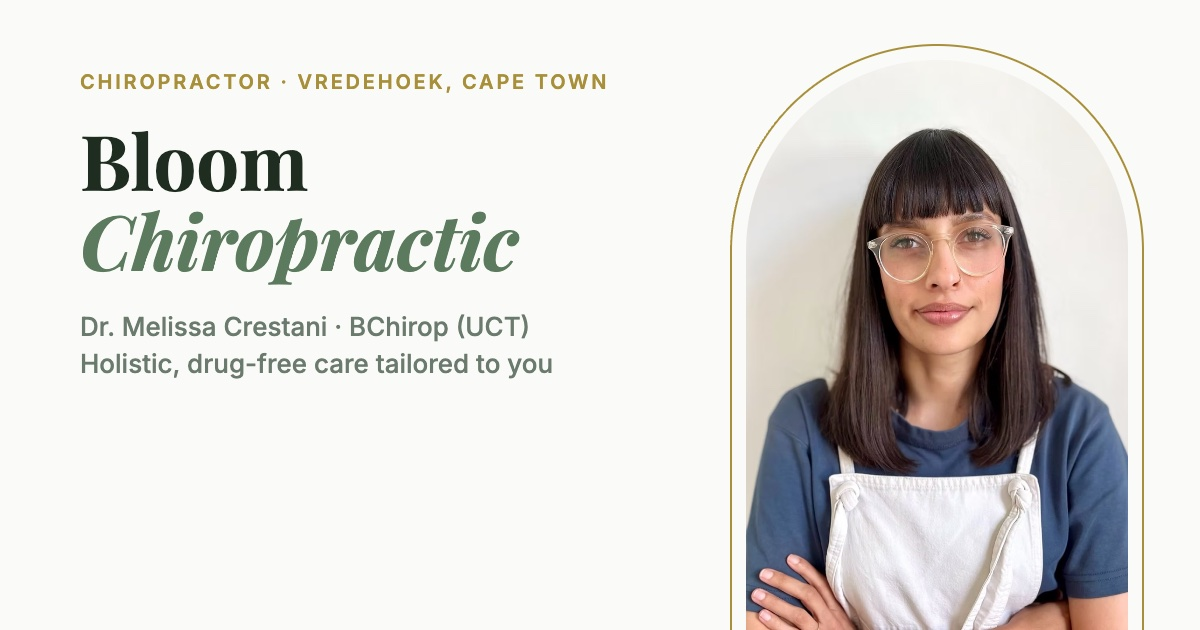
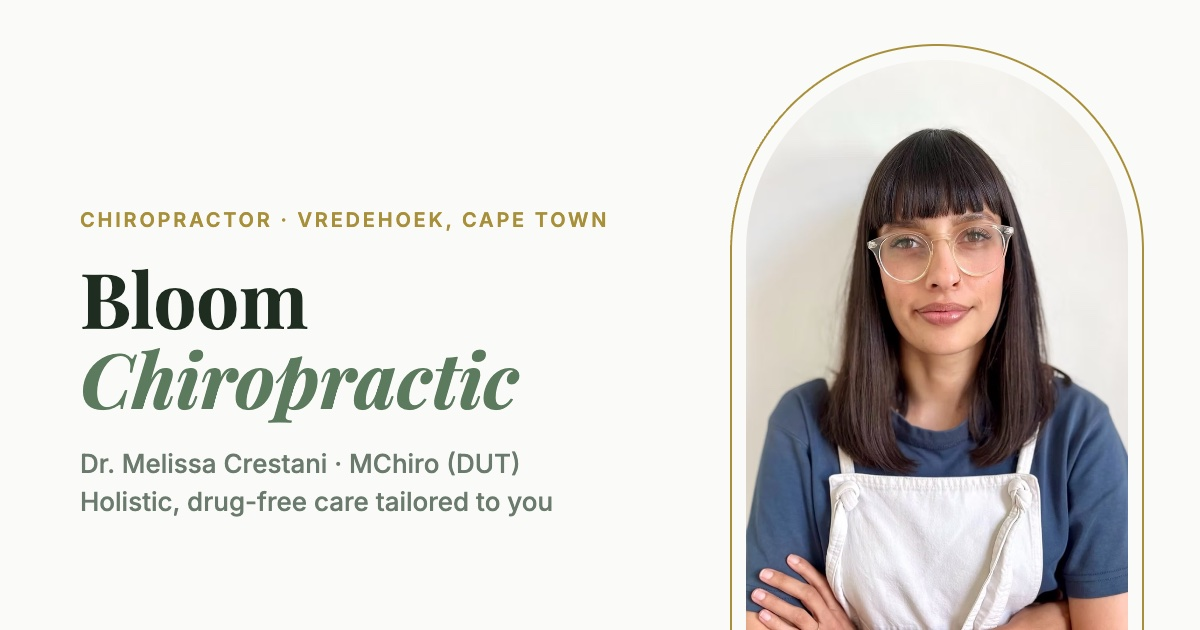
Qualification: MChiro (DUT) instead of BChirop (UCT)
Footer credential on all pages, structured data (alumniOf: Durban
University of Technology) and the link-preview image.

diff --git a/index.html b/index.html
@@ -81,7 +81,7 @@
       "@type": "Person",
       "name": "Dr. Melissa Crestani",
       "jobTitle": "Chiropractor",
-      "alumniOf": "University of Cape Town"
+      "alumniOf": "Durban University of Technology"
     }
   }
   </script>
@@ -629,7 +629,7 @@
         <span class="nav__logo-bloom">Bloom</span>
         <span class="nav__logo-chiro">Chiropractic</span>
         <p>27 Derry Street, Vredehoek, Cape Town</p>
-        <p>Dr. Melissa Crestani · BChirop (UCT)</p>
+        <p>Dr. Melissa Crestani · MChiro (DUT)</p>
       </div>
       <div class="footer__links">
         <h4>Quick Links</h4>

diff --git a/headaches-migraines/index.html b/headaches-migraines/index.html
@@ -252,7 +252,7 @@
         <span class="nav__logo-bloom">Bloom</span>
         <span class="nav__logo-chiro">Chiropractic</span>
         <p>27 Derry Street, Vredehoek, Cape Town</p>
-        <p>Dr. Melissa Crestani · BChirop (UCT)</p>
+        <p>Dr. Melissa Crestani · MChiro (DUT)</p>
       </div>
       <div class="footer__links">
         <h4>Quick Links</h4>

diff --git a/hip-knee-pain/index.html b/hip-knee-pain/index.html
@@ -252,7 +252,7 @@
         <span class="nav__logo-bloom">Bloom</span>
         <span class="nav__logo-chiro">Chiropractic</span>
         <p>27 Derry Street, Vredehoek, Cape Town</p>
-        <p>Dr. Melissa Crestani · BChirop (UCT)</p>
+        <p>Dr. Melissa Crestani · MChiro (DUT)</p>
       </div>
       <div class="footer__links">
         <h4>Quick Links</h4>

diff --git a/mid-lower-back-pain/index.html b/mid-lower-back-pain/index.html
@@ -252,7 +252,7 @@
         <span class="nav__logo-bloom">Bloom</span>
         <span class="nav__logo-chiro">Chiropractic</span>
         <p>27 Derry Street, Vredehoek, Cape Town</p>
-        <p>Dr. Melissa Crestani · BChirop (UCT)</p>
+        <p>Dr. Melissa Crestani · MChiro (DUT)</p>
       </div>
       <div class="footer__links">
         <h4>Quick Links</h4>

diff --git a/muscle-pain-spasms/index.html b/muscle-pain-spasms/index.html
@@ -252,7 +252,7 @@
         <span class="nav__logo-bloom">Bloom</span>
         <span class="nav__logo-chiro">Chiropractic</span>
         <p>27 Derry Street, Vredehoek, Cape Town</p>
-        <p>Dr. Melissa Crestani · BChirop (UCT)</p>
+        <p>Dr. Melissa Crestani · MChiro (DUT)</p>
       </div>
       <div class="footer__links">
         <h4>Quick Links</h4>

diff --git a/neck-shoulder-pain/index.html b/neck-shoulder-pain/index.html
@@ -252,7 +252,7 @@
         <span class="nav__logo-bloom">Bloom</span>
         <span class="nav__logo-chiro">Chiropractic</span>
         <p>27 Derry Street, Vredehoek, Cape Town</p>
-        <p>Dr. Melissa Crestani · BChirop (UCT)</p>
+        <p>Dr. Melissa Crestani · MChiro (DUT)</p>
       </div>
       <div class="footer__links">
         <h4>Quick Links</h4>

diff --git a/pinched-nerves/index.html b/pinched-nerves/index.html
@@ -252,7 +252,7 @@
         <span class="nav__logo-bloom">Bloom</span>
         <span class="nav__logo-chiro">Chiropractic</span>
         <p>27 Derry Street, Vredehoek, Cape Town</p>
-        <p>Dr. Melissa Crestani · BChirop (UCT)</p>
+        <p>Dr. Melissa Crestani · MChiro (DUT)</p>
       </div>
       <div class="footer__links">
         <h4>Quick Links</h4>

diff --git a/sports-injuries/index.html b/sports-injuries/index.html
@@ -252,7 +252,7 @@
         <span class="nav__logo-bloom">Bloom</span>
         <span class="nav__logo-chiro">Chiropractic</span>
         <p>27 Derry Street, Vredehoek, Cape Town</p>
-        <p>Dr. Melissa Crestani · BChirop (UCT)</p>
+        <p>Dr. Melissa Crestani · MChiro (DUT)</p>
       </div>
       <div class="footer__links">
         <h4>Quick Links</h4>

diff --git a/sprained-joints-ligaments/index.html b/sprained-joints-ligaments/index.html
@@ -252,7 +252,7 @@
         <span class="nav__logo-bloom">Bloom</span>
         <span class="nav__logo-chiro">Chiropractic</span>
         <p>27 Derry Street, Vredehoek, Cape Town</p>
-        <p>Dr. Melissa Crestani · BChirop (UCT)</p>
+        <p>Dr. Melissa Crestani · MChiro (DUT)</p>
       </div>
       <div class="footer__links">
         <h4>Quick Links</h4>
